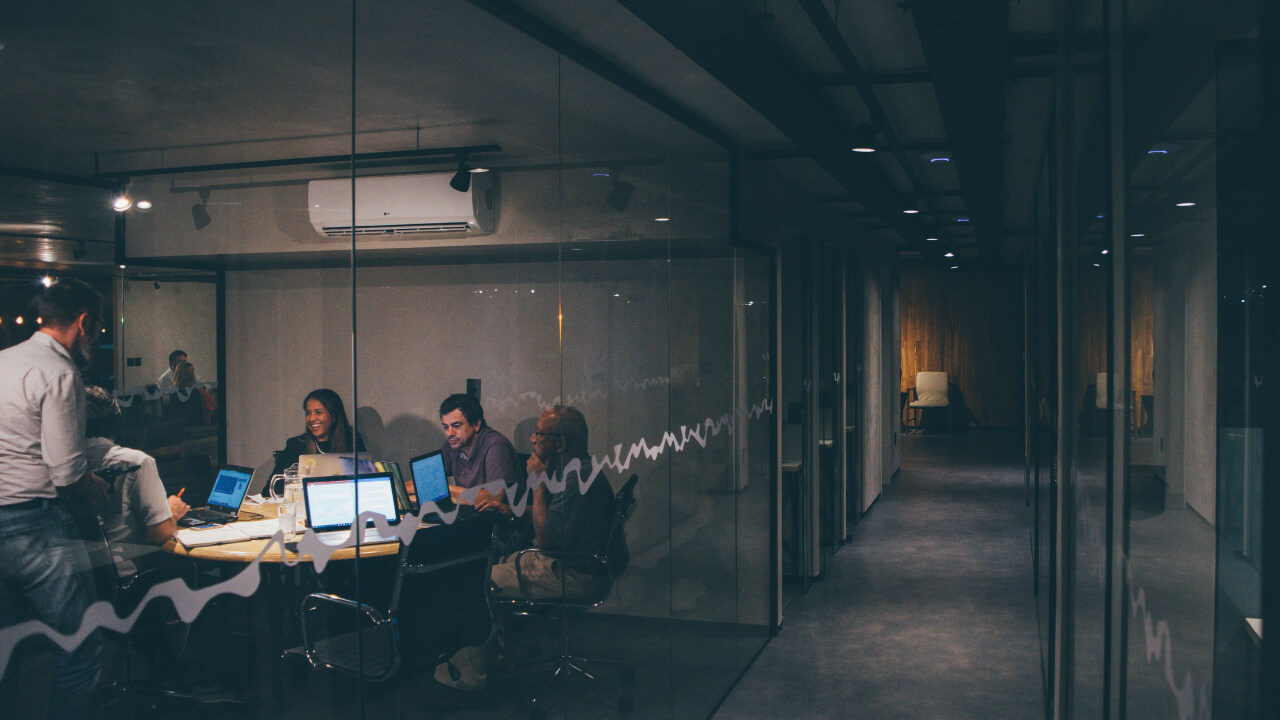
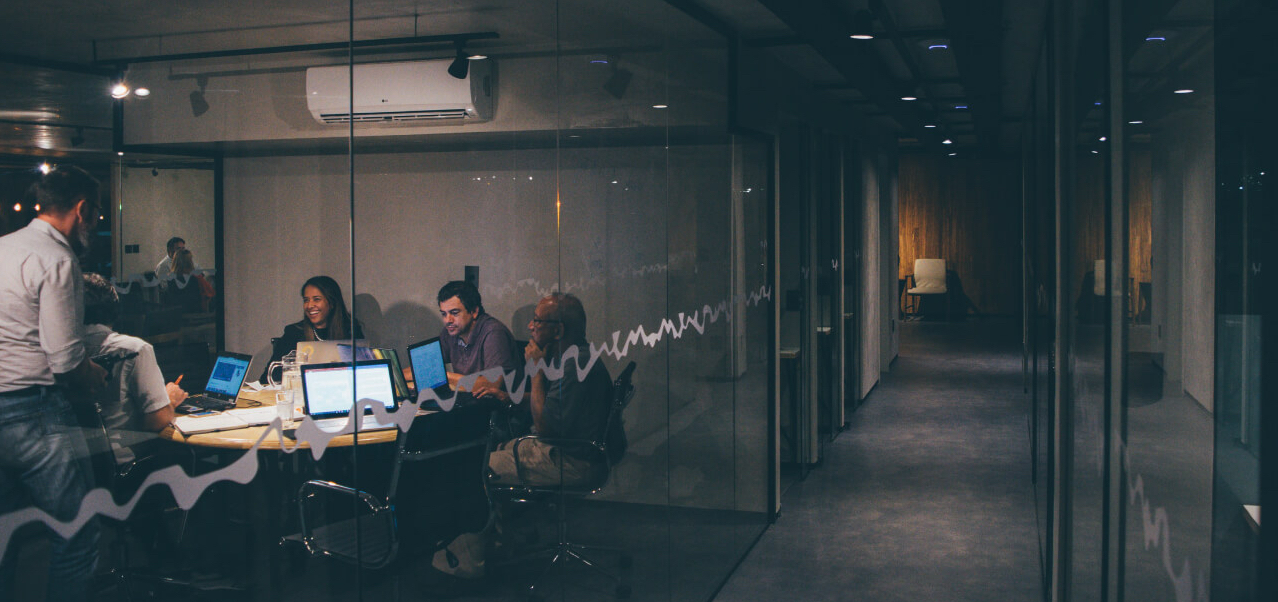
updated home image and section height

diff --git a/src/components/HeroSection.css b/src/components/HeroSection.css
@@ -61,7 +61,6 @@
   flex-wrap: wrap;
 }
 .teamCard{
-  /* height: 500px; */
   padding: 35px;
   margin: 30px;
   display: flex;
@@ -98,7 +97,6 @@
   margin-bottom: 15px;
 }
 .image{
-  height: 70%;
   width: 80%;
   margin: 80px 50px;
   overflow: hidden;
